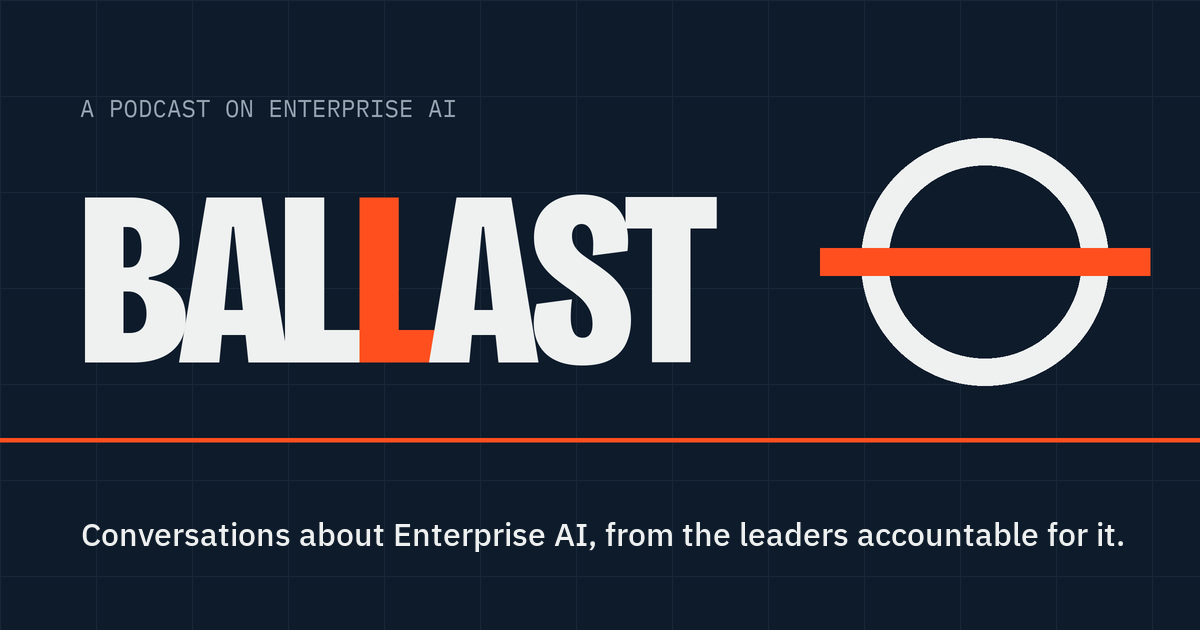
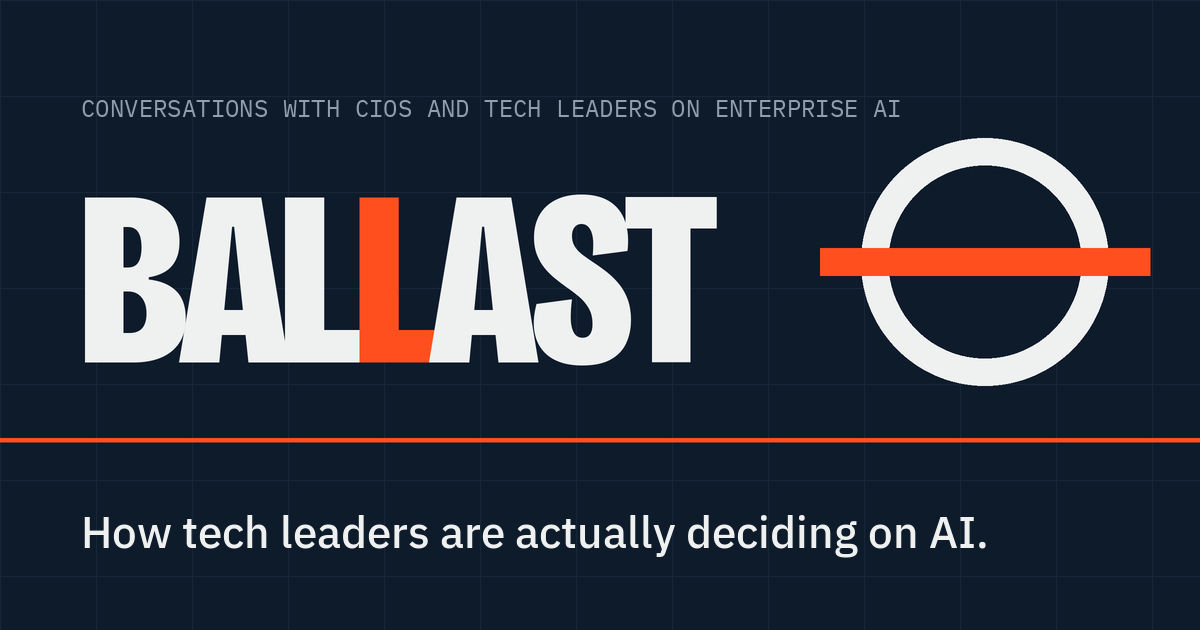
Add files via upload

Changed region(s): [[0.0617, 0.8143, 0.925, 0.9048], [0.0617, 0.1508, 0.74, 0.2111]]

diff --git a/index.html b/index.html
@@ -27,12 +27,12 @@
   <meta property="og:image" content="https://www.ballastpod.com/og.png" />
   <meta property="og:image:width" content="1200" />
   <meta property="og:image:height" content="630" />
-  <meta property="og:image:alt" content="Ballast, a podcast on enterprise AI: the Plimsoll load-line mark beside the line &quot;Conversations about Enterprise AI, from the leaders accountable for it.&quot;" />
+  <meta property="og:image:alt" content="Ballast, a podcast on enterprise AI: the Plimsoll load-line mark beside the line &quot;How tech leaders are actually deciding on AI.&quot;" />
   <meta name="twitter:card" content="summary_large_image" />
   <meta name="twitter:title" content="Ballast — Enterprise AI podcast for CIOs and CTOs" />
-  <meta name="twitter:description" content="Conversations about Enterprise AI, from the leaders accountable for it." />
+  <meta name="twitter:description" content="How tech leaders are actually deciding on AI." />
   <meta name="twitter:image" content="https://www.ballastpod.com/og.png" />
-  <meta name="twitter:image:alt" content="Ballast, a podcast on enterprise AI: the Plimsoll load-line mark beside the line &quot;Conversations about Enterprise AI, from the leaders accountable for it.&quot;" />
+  <meta name="twitter:image:alt" content="Ballast, a podcast on enterprise AI: the Plimsoll load-line mark beside the line &quot;How tech leaders are actually deciding on AI.&quot;" />
 
   <!-- Favicon: Plimsoll load-line mark -->
   <link rel="icon" href="favicon.ico" sizes="32x32" />
@@ -145,17 +145,9 @@
     }
     .hero h1 span { color: var(--signal-text); }
     /* Tagline lockup: the line is 32.3em wide and the BALLAST wordmark is 2.49em of the h1 size, so 0.0763 x the h1 clamp makes the tagline about 99% of the wordmark width. 17px floor keeps it readable; it stays on one line from 861px up and wraps to two on phones. */
-    .hero .lede { font-size: max(17px, calc(0.0763 * clamp(5.2rem, 19vw, 15rem))); line-height: 1.3; font-weight: 500; text-wrap: balance; margin-top: -10px; }
+    .hero .lede { font-size: clamp(1.3rem, 2.3vw, 1.75rem); line-height: 1.3; font-weight: 500; text-wrap: balance; margin-top: -10px; }
     @media (min-width: 861px) { .hero .lede { white-space: nowrap; } }
-    /* Clear space: Spotify asks for half the icon height (24px) around the icon. */
-    .hero-social { display: flex; flex-direction: column; align-items: flex-start; gap: 24px; }
-    .social-row { display: flex; align-items: center; gap: 26px; list-style: none; margin: 0; padding: 0; }
-    .soc { display: block; height: 48px; border-radius: 11px; transition: transform .2s; }
-    .soc svg { width: 48px; height: 48px; }
-    .soc img { display: block; height: 48px; width: auto; }
-    .soc[aria-disabled="true"] { opacity: .45; cursor: default; }
-    .soc:not([aria-disabled="true"]):hover { transform: translateY(-2px); }
-    .soon-note { font-family: var(--font-mono); font-size: .72rem; letter-spacing: .1em; text-transform: uppercase; color: var(--ink-2); }
+    .hero-cta { display: flex; flex-wrap: wrap; gap: 12px; }
     /* ===== TOPICS ===== */
     .topics { display: grid; grid-template-columns: repeat(3, 1fr); border-top: 1px solid var(--ink); border-left: 1px solid var(--ink); }
     @media (max-width: 900px) { .topics { grid-template-columns: repeat(2, 1fr); } }
@@ -223,12 +215,19 @@
     .subscribe, #news { background: var(--ink); color: var(--paper); }
     .subscribe h2, #news h2 { color: var(--paper); }
     .sub-grid { display: grid; grid-template-columns: 1fr 1fr; gap: 48px; align-items: start; }
-    .sub-grid.solo { grid-template-columns: minmax(0, 560px); }
     @media (max-width: 860px) { .sub-grid { grid-template-columns: 1fr; } }
     .platforms { display: flex; flex-wrap: wrap; gap: 10px; margin-top: 24px; }
     .platforms .btn { border-color: var(--paper); color: var(--paper); }
     .platforms .btn:hover { background: var(--paper); color: var(--ink); }
     .platforms svg { fill: currentColor; width: 16px; height: 16px; }
+    .platforms .plat { gap: 12px; padding: 12px 18px; }
+    .platforms .plat svg { width: auto; height: 24px; flex: none; }
+    .platforms .plat img { display: block; width: auto; height: 24px; flex: none; }
+    .platforms .plat:not([aria-disabled="true"]):hover { background: rgba(238,241,240,.12); color: var(--paper); }
+    /* Disabled: dim the label and border through alpha colour only, so the logo keeps full opacity and colour. Label is paper at .7 on ink (7.99:1). */
+    .platforms .plat[aria-disabled="true"] { cursor: default; color: rgba(238,241,240,.7); border-color: rgba(238,241,240,.45); }
+    .platforms .plat[aria-disabled="true"]:hover { background: transparent; color: rgba(238,241,240,.7); }
+    .soon-note { margin-top: 16px; font-family: var(--font-mono); font-size: .72rem; letter-spacing: .1em; text-transform: uppercase; color: rgba(238,241,240,.8); }
     .newsletter { display: flex; gap: 0; padding: 0; margin-top: 18px; border: 1.5px solid var(--paper); }
     .newsletter input { flex: 1; min-width: 0; background: transparent; border: 0; padding: 13px 16px; color: var(--paper); }
     .newsletter input::placeholder { color: rgba(238,241,240,.7); opacity: 1; }
@@ -336,18 +335,14 @@
     <section class="hero" aria-labelledby="hero-title">
       <div class="wrap hero-grid">
         <div class="kicker">
-          <span class="mono">A podcast on enterprise AI</span>
+          <span class="mono">Conversations with CIOs and tech leaders on enterprise AI</span>
         </div>
         <h1 id="hero-title">Bal<span>l</span>ast</h1>
-        <p class="lede">Conversations about Enterprise AI, from the leaders accountable for it.</p>
-          <div class="hero-social" id="hero-social" hidden>
-            <ul class="social-row">
-              <li><a class="soc" id="soc-spotify" role="link" aria-disabled="true" aria-label="Listen on Spotify" title="Listen on Spotify" target="_blank" rel="noopener"><img src="spotify.svg" alt="Spotify" width="236" height="225" /></a></li>
-              <li><a class="soc" id="soc-apple" role="link" aria-disabled="true" aria-label="Listen on Apple Podcasts" title="Listen on Apple Podcasts" target="_blank" rel="noopener"><svg viewBox="0 0 24 24" aria-hidden="true" focusable="false"><defs><linearGradient id="ap-grad" gradientUnits="userSpaceOnUse" x1="12" y1="0" x2="12" y2="24"><stop offset="0" stop-color="#F452FF"/><stop offset="1" stop-color="#832BC1"/></linearGradient></defs><rect x=".4" y=".4" width="23.2" height="23.2" rx="5.2" fill="#fff"/><path fill="url(#ap-grad)" d="M5.34 0A5.328 5.328 0 000 5.34v13.32A5.328 5.328 0 005.34 24h13.32A5.328 5.328 0 0024 18.66V5.34A5.328 5.328 0 0018.66 0zm6.525 2.568c2.336 0 4.448.902 6.056 2.587 1.224 1.272 1.912 2.619 2.264 4.392.12.59.12 2.2.007 2.864a8.506 8.506 0 01-3.24 5.296c-.608.46-2.096 1.261-2.336 1.261-.088 0-.096-.091-.056-.46.072-.592.144-.715.48-.856.536-.224 1.448-.874 2.008-1.435a7.644 7.644 0 002.008-3.536c.208-.824.184-2.656-.048-3.504-.728-2.696-2.928-4.792-5.624-5.352-.784-.16-2.208-.16-3 0-2.728.56-4.984 2.76-5.672 5.528-.184.752-.184 2.584 0 3.336.456 1.832 1.64 3.512 3.192 4.512.304.2.672.408.824.472.336.144.408.264.472.856.04.36.03.464-.056.464-.056 0-.464-.176-.896-.384l-.04-.03c-2.472-1.216-4.056-3.274-4.632-6.012-.144-.706-.168-2.392-.03-3.04.36-1.74 1.048-3.1 2.192-4.304 1.648-1.737 3.768-2.656 6.128-2.656zm.134 2.81c.409.004.803.04 1.106.106 2.784.62 4.76 3.408 4.376 6.174-.152 1.114-.536 2.03-1.216 2.88-.336.43-1.152 1.15-1.296 1.15-.023 0-.048-.272-.048-.603v-.605l.416-.496c1.568-1.878 1.456-4.502-.256-6.224-.664-.67-1.432-1.064-2.424-1.246-.64-.118-.776-.118-1.448-.008-1.02.167-1.81.562-2.512 1.256-1.72 1.704-1.832 4.342-.264 6.222l.413.496v.608c0 .336-.027.608-.06.608-.03 0-.264-.16-.512-.36l-.034-.011c-.832-.664-1.568-1.842-1.872-2.997-.184-.698-.184-2.024.008-2.72.504-1.878 1.888-3.335 3.808-4.019.41-.145 1.133-.22 1.814-.211zm-.13 2.99c.31 0 .62.06.844.178.488.253.888.745 1.04 1.259.464 1.578-1.208 2.96-2.72 2.254h-.015c-.712-.331-1.096-.956-1.104-1.77 0-.733.408-1.371 1.112-1.745.224-.117.534-.176.844-.176zm-.011 4.728c.988-.004 1.706.349 1.97.97.198.464.124 1.932-.218 4.302-.232 1.656-.36 2.074-.68 2.356-.44.39-1.064.498-1.656.288h-.003c-.716-.257-.87-.605-1.164-2.644-.341-2.37-.416-3.838-.218-4.302.262-.616.974-.966 1.97-.97z"/></svg></a></li>
-              <li><a class="soc" id="soc-linkedin" role="link" aria-disabled="true" aria-label="Hans on LinkedIn" title="Hans on LinkedIn" target="_blank" rel="noopener"><img src="linkedin.png" alt="LinkedIn" width="635" height="540" /></a></li>
-            </ul>
-            <p class="soon-note" id="soon-note" hidden>Coming soon</p>
-          </div>
+        <p class="lede">How tech leaders are actually deciding on AI.</p>
+        <div class="hero-cta">
+          <a class="btn btn-fill" id="hero-listen" href="#subscribe"><svg viewBox="0 0 24 24" fill="currentColor" aria-hidden="true"><path d="M8 5v14l11-7z"/></svg>Listen</a>
+          <a class="btn" href="#guest">Be a guest</a>
+        </div>
         <!-- Latest episode, pulled from EPISODES[0] by JS -->
         <a class="latest reveal in" id="latest" href="#episodes" hidden>
           <span class="mono"><i></i>Latest episode</span>
@@ -479,14 +474,15 @@
     <!-- ===== SUBSCRIBE ===== -->
     <section id="subscribe" class="subscribe" aria-labelledby="subscribe-title">
       <div class="wrap sub-grid">
-        <div class="reveal" id="platforms-col" hidden>
+        <div class="reveal" id="platforms-col">
           <h2 id="subscribe-title">Wherever you listen.</h2>
           <div class="platforms">
-            <a class="btn" id="pl-apple" target="_blank" rel="noopener" hidden><svg viewBox="0 0 24 24" aria-hidden="true"><path d="M12 2a10 10 0 0 0-3.8 19.3c-.3-1-.6-2.7-.3-3.6A7 7 0 1 1 16 17.7c.3.9.1 2.6-.2 3.6A10 10 0 0 0 12 2zm0 7a3 3 0 1 0 0 6 3 3 0 0 0 0-6zm0 7c-1.4 0-2.2.6-2.2 1.6 0 .7.7 4.8.9 5.5.2.6.6.9 1.3.9s1.1-.3 1.3-.9c.2-.7.9-4.8.9-5.5 0-1-.8-1.6-2.2-1.6z"/></svg>Apple Podcasts</a>
-            <a class="btn" id="pl-spotify" target="_blank" rel="noopener" hidden><svg viewBox="0 0 24 24" aria-hidden="true"><path d="M12 2a10 10 0 1 0 0 20 10 10 0 0 0 0-20zm4.3 14.5c-.2.3-.6.4-.9.2-2.4-1.5-5.5-1.8-9.1-1-.4.1-.7-.1-.8-.5-.1-.4.2-.7.5-.8 3.9-.9 7.3-.5 10.1 1.2.3.2.4.6.2.9zm1.2-2.6c-.2.4-.7.5-1.1.3-2.8-1.7-7-2.2-10.3-1.2-.5.1-.9-.1-1-.6-.1-.5.1-.9.6-1 3.8-1.1 8.5-.6 11.6 1.4.4.2.5.7.2 1.1zm.1-2.8c-3.3-2-8.8-2.2-12-1.2-.5.2-1.1-.1-1.2-.7-.2-.5.1-1.1.7-1.2 3.7-1.1 9.8-.9 13.6 1.4.5.3.6.9.4 1.4-.3.4-1 .6-1.5.3z"/></svg>Spotify</a>
-            <a class="btn" id="pl-youtube" target="_blank" rel="noopener" hidden><svg viewBox="0 0 24 24" aria-hidden="true"><path d="M23 7.2a3 3 0 0 0-2.1-2.1C19 4.6 12 4.6 12 4.6s-7 0-8.9.5A3 3 0 0 0 1 7.2 31 31 0 0 0 .5 12 31 31 0 0 0 1 16.8a3 3 0 0 0 2.1 2.1c1.9.5 8.9.5 8.9.5s7 0 8.9-.5a3 3 0 0 0 2.1-2.1A31 31 0 0 0 23.5 12 31 31 0 0 0 23 7.2zM9.7 15.2V8.8l6 3.2-6 3.2z"/></svg>YouTube</a>
+            <a class="btn plat" id="pl-apple" role="link" aria-disabled="true" target="_blank" rel="noopener"><svg viewBox="0 0 24 24" width="24" height="24" aria-hidden="true" focusable="false"><defs><linearGradient id="ap-grad" gradientUnits="userSpaceOnUse" x1="12" y1="0" x2="12" y2="24"><stop offset="0" stop-color="#F452FF"/><stop offset="1" stop-color="#832BC1"/></linearGradient></defs><rect x=".4" y=".4" width="23.2" height="23.2" rx="5.2" fill="#fff"/><path fill="url(#ap-grad)" d="M5.34 0A5.328 5.328 0 000 5.34v13.32A5.328 5.328 0 005.34 24h13.32A5.328 5.328 0 0024 18.66V5.34A5.328 5.328 0 0018.66 0zm6.525 2.568c2.336 0 4.448.902 6.056 2.587 1.224 1.272 1.912 2.619 2.264 4.392.12.59.12 2.2.007 2.864a8.506 8.506 0 01-3.24 5.296c-.608.46-2.096 1.261-2.336 1.261-.088 0-.096-.091-.056-.46.072-.592.144-.715.48-.856.536-.224 1.448-.874 2.008-1.435a7.644 7.644 0 002.008-3.536c.208-.824.184-2.656-.048-3.504-.728-2.696-2.928-4.792-5.624-5.352-.784-.16-2.208-.16-3 0-2.728.56-4.984 2.76-5.672 5.528-.184.752-.184 2.584 0 3.336.456 1.832 1.64 3.512 3.192 4.512.304.2.672.408.824.472.336.144.408.264.472.856.04.36.03.464-.056.464-.056 0-.464-.176-.896-.384l-.04-.03c-2.472-1.216-4.056-3.274-4.632-6.012-.144-.706-.168-2.392-.03-3.04.36-1.74 1.048-3.1 2.192-4.304 1.648-1.737 3.768-2.656 6.128-2.656zm.134 2.81c.409.004.803.04 1.106.106 2.784.62 4.76 3.408 4.376 6.174-.152 1.114-.536 2.03-1.216 2.88-.336.43-1.152 1.15-1.296 1.15-.023 0-.048-.272-.048-.603v-.605l.416-.496c1.568-1.878 1.456-4.502-.256-6.224-.664-.67-1.432-1.064-2.424-1.246-.64-.118-.776-.118-1.448-.008-1.02.167-1.81.562-2.512 1.256-1.72 1.704-1.832 4.342-.264 6.222l.413.496v.608c0 .336-.027.608-.06.608-.03 0-.264-.16-.512-.36l-.034-.011c-.832-.664-1.568-1.842-1.872-2.997-.184-.698-.184-2.024.008-2.72.504-1.878 1.888-3.335 3.808-4.019.41-.145 1.133-.22 1.814-.211zm-.13 2.99c.31 0 .62.06.844.178.488.253.888.745 1.04 1.259.464 1.578-1.208 2.96-2.72 2.254h-.015c-.712-.331-1.096-.956-1.104-1.77 0-.733.408-1.371 1.112-1.745.224-.117.534-.176.844-.176zm-.011 4.728c.988-.004 1.706.349 1.97.97.198.464.124 1.932-.218 4.302-.232 1.656-.36 2.074-.68 2.356-.44.39-1.064.498-1.656.288h-.003c-.716-.257-.87-.605-1.164-2.644-.341-2.37-.416-3.838-.218-4.302.262-.616.974-.966 1.97-.97z"/></svg><span>Apple Podcasts</span></a>
+            <a class="btn plat" id="pl-spotify" role="link" aria-disabled="true" target="_blank" rel="noopener"><img src="spotify.svg" alt="" width="236" height="225" /><span>Spotify</span></a>
+            <a class="btn plat" id="pl-youtube" role="link" aria-disabled="true" target="_blank" rel="noopener"><svg viewBox="0 0 28.57 20" width="34" height="24" aria-hidden="true" focusable="false"><path fill="#FF0000" d="M27.97 3.12a3.58 3.58 0 0 0-2.52-2.53C23.23 0 14.29 0 14.29 0S5.34 0 3.12.59A3.58 3.58 0 0 0 .6 3.12C0 5.35 0 10 0 10s0 4.65.6 6.88a3.58 3.58 0 0 0 2.52 2.53C5.34 20 14.29 20 14.29 20s8.94 0 11.16-.59a3.58 3.58 0 0 0 2.52-2.53C28.57 14.65 28.57 10 28.57 10s0-4.65-.6-6.88z"/><path fill="#fff" d="M11.43 14.29 18.85 10l-7.42-4.29z"/></svg><span>YouTube</span></a>
             <a class="btn" id="pl-rss" target="_blank" rel="noopener" hidden><svg viewBox="0 0 24 24" aria-hidden="true"><path d="M4 4.5v3a12.5 12.5 0 0 1 12.5 12.5h3A15.5 15.5 0 0 0 4 4.5zm0 6v3a6.5 6.5 0 0 1 6.5 6.5h3A9.5 9.5 0 0 0 4 10.5zM6.2 17a2.2 2.2 0 1 0 0 4.4 2.2 2.2 0 0 0 0-4.4z"/></svg>RSS</a>
           </div>
+          <p class="soon-note" id="soon-note" hidden>Coming soon</p>
         </div>
         <div class="reveal">
           <h3 class="h-sub">New episodes by email.</h3>

diff --git a/site.js b/site.js
@@ -154,39 +154,40 @@ const safeId = i => /^[A-Za-z0-9_-]+$/.test(i) ? i : '';
 const CONTACT = safeEmail(SITE.contactEmail);
 const safeAppleUrl = u => /^https:\/\/(podcasts|itunes)\.apple\.com\/[^\s"'<>]+$/i.test(u) ? u : '';
 const safeLinkedInUrl = u => /^https:\/\/www\.linkedin\.com\/in\/[^\s"'<>]+$/i.test(u) ? u : '';
+const safeYoutubeUrl = u => /^https:\/\/(www\.)?youtube\.com\/[^\s"'<>]+$/i.test(u) ? u : '';
 const safeSpotifyUrl = u => /^https:\/\/open\.spotify\.com\/[^\s"'<>]+$/i.test(u) ? u : '';
 const ENDPOINT = safeScriptUrl(SITE.guestEndpoint);
 const NL_ID = safeId(SITE.newsletterFormId);
 /* Newsletter signup UI (Subscribe form) shows only when a delivery path exists. */
 const hasSignupPath = !!ENDPOINT || !!NL_ID || !!CONTACT;
-/* Hero brand icons. An icon whose URL is empty or invalid stays visible but dimmed and not a link; once its SITE value is set it becomes a normal link. */
-(function () {
-  const items = [
-    ['soc-spotify', safeSpotifyUrl(SITE.spotifyUrl), 'spotify'],
-    ['soc-apple', safeAppleUrl(SITE.appleUrl), 'apple'],
-    ['soc-linkedin', safeLinkedInUrl(SITE.hostLinkedIn), 'linkedin']
-  ];
-  items.forEach(([id, url, name]) => {
-    if (!url) return;
-    const a = document.getElementById(id);
-    a.href = url; a.removeAttribute('aria-disabled'); a.removeAttribute('role');
-    a.addEventListener('click', () => track('platform_click', { platform: name }));
-  });
-  document.getElementById('soon-note').hidden = !!(items[0][1] && items[1][1]);
-  document.getElementById('hero-social').hidden = false;
-})();
 function setLink(id, url) {
   const el = document.getElementById(id), u = safeUrl(url);
   if (!el) return false;
   if (u) { el.href = u; el.hidden = false; }
   return !!u;
 }
-const anyPlatform = [
-  setLink('pl-apple', safeAppleUrl(SITE.appleUrl)), setLink('pl-spotify', safeSpotifyUrl(SITE.spotifyUrl)),
-  setLink('pl-youtube', SITE.youtubeUrl), setLink('pl-rss', SITE.rssUrl)
-].some(Boolean);
-document.getElementById('platforms-col').hidden = !anyPlatform;
-document.querySelector('.sub-grid').classList.toggle('solo', !anyPlatform);
+/* "Wherever you listen": the three buttons always show. One with no valid URL stays dimmed and unlinked until its SITE value is set. RSS shows only when rssUrl is set. */
+const platformUrls = {
+  'pl-apple': safeAppleUrl(SITE.appleUrl),
+  'pl-spotify': safeSpotifyUrl(SITE.spotifyUrl),
+  'pl-youtube': safeYoutubeUrl(SITE.youtubeUrl)
+};
+Object.entries(platformUrls).forEach(([id, url]) => {
+  if (!url) return;
+  const a = document.getElementById(id);
+  a.href = url; a.removeAttribute('aria-disabled'); a.removeAttribute('role');
+});
+document.getElementById('soon-note').hidden = Object.values(platformUrls).every(Boolean);
+setLink('pl-rss', SITE.rssUrl);
+/* Hero "Listen": smooth-scroll to the Subscribe section (instant under reduced motion) and move focus to its heading. */
+document.getElementById('hero-listen').addEventListener('click', e => {
+  e.preventDefault();
+  const heading = document.getElementById('subscribe-title');
+  document.getElementById('subscribe').scrollIntoView({ behavior: reduceMotion ? 'auto' : 'smooth', block: 'start' });
+  heading.setAttribute('tabindex', '-1');
+  heading.focus({ preventScroll: true });
+  history.replaceState(null, '', '#subscribe');
+});
 setLink('host-linkedin', safeLinkedInUrl(SITE.hostLinkedIn));
 setLink('footer-linkedin', safeLinkedInUrl(SITE.hostLinkedIn));
 if (SITE.hostSurname.trim()) document.getElementById('host-surname').textContent = ' ' + SITE.hostSurname.trim();

diff --git a/README.md b/README.md
@@ -21,9 +21,9 @@ Every field is an empty string until the owner fills it in. A control that needs
 | `guestEndpoint` | Google Apps Script web app URL, already set. Must look like `https://script.google.com/macros/s/<id>/exec` or it is ignored. The guest form and the newsletter form (Subscribe section) POST to it (form-encoded, no custom headers) and expect JSON `{"ok":true}`. The newsletter forms send an extra hidden `form=newsletter` field; the guest form sends no `form` field, so the script treats it as a guest request. The script logs each submission to a Google Sheet and emails the guest or subscriber (and, for guest requests, the owner). It reads the fields `name, title, company, email, linkedin, form, _gotcha`, so keep those `name` attributes. Takes priority over `newsletterFormId`, `guestFormId` and `contactEmail`. Newsletter priority is endpoint, then `newsletterFormId`, then a `contactEmail` mailto draft. |
 | `guestFormId` | Formspree form ID. Used only when `guestEndpoint` is empty. The "Be a guest" form is always visible; this is what makes it submit to Formspree. If it is empty but `contactEmail` is set, submitting opens an email draft to `contactEmail` (subject "Ballast guest pitch") with the typed fields in the body. With neither, submitting shows "Guest requests aren't being collected online yet" and keeps what was typed. |
 | `contactEmail` | Public address. Last-resort fallback: the guest and newsletter forms open an email draft to it when neither an endpoint nor a form ID is set. Also used for error-message email links in the Formspree guest path. |
-| `appleUrl`, `spotifyUrl`, `youtubeUrl`, `rssUrl` | Each shows its button in the Subscribe section; the "Wherever you listen" column appears when at least one is set. `spotifyUrl` must be an `https://open.spotify.com/...` link and `appleUrl` an `https://podcasts.apple.com/...` (or `itunes.apple.com`) link. The same two values drive the hero brand icons: with no valid URL the icon still shows, dimmed and not a link, and a "Coming soon" caption sits under the row while either is missing; once set, the icon becomes a normal link automatically. |
+| `appleUrl`, `spotifyUrl`, `youtubeUrl`, `rssUrl` | The "Wherever you listen" buttons in the Subscribe section (the hero "Listen" button scrolls there). Apple Podcasts, Spotify and YouTube always show; a button with no valid URL stays dimmed and unlinked and a "Coming soon" line shows under the row until all three are set. RSS appears only when `rssUrl` is set. URL checks: `spotifyUrl` must be `https://open.spotify.com/...`, `appleUrl` `https://podcasts.apple.com/...` (or `itunes.apple.com`), `youtubeUrl` `https://www.youtube.com/...` or `https://youtube.com/...`, `rssUrl` any `https://` URL. |
 | `hostSurname` | Appended to "Hosted by Hans" in the About section. |
-| `hostLinkedIn` | LinkedIn profile URL, already set. Must start with `https://www.linkedin.com/in/`. Drives the hero LinkedIn icon, the About button and the footer link. |
+| `hostLinkedIn` | LinkedIn profile URL, already set. Must start with `https://www.linkedin.com/in/`. Drives the About button and the footer link. |
 | `hostAffiliation` | Shows a one-line disclosure under the bio, for example an employer or independence statement. |
 | `newsStaleDays` | Soundings hides itself, and its nav link, when `NEWS.weekOf` is older than this many days (default 14). |
 | `analytics` | `false` by default. Set to `true` only after Web Analytics is enabled in the Vercel project; `site.js` then loads `/_vercel/insights/script.js`. |
@@ -66,7 +66,7 @@ The site is hosted on Vercel.
 
 ## Checklist: values only the owner can provide
 
-- [ ] Spotify show URL (`spotifyUrl`) and Apple Podcasts URL (`appleUrl`) to light up the hero icons
+- [ ] Spotify show URL (`spotifyUrl`), Apple Podcasts URL (`appleUrl`) and YouTube channel URL (`youtubeUrl`) to switch the "Wherever you listen" buttons on
 - [ ] Optional: Formspree form ID for the newsletter (`newsletterFormId`) as a fallback
 - [ ] Keep the Google Apps Script deployment live and set to allow anyone to POST (`guestEndpoint`); optionally a Formspree ID for the guest form (`guestFormId`) as a fallback
 - [ ] Public contact email (`contactEmail`)
@@ -81,11 +81,11 @@ The site is hosted on Vercel.
 
 ## Brand icon sources
 
-The hero icons are brand marks and must be used unmodified. Follow each brand's guidelines.
+The platform logos on the "Wherever you listen" buttons are brand marks and must be used unmodified. Follow each brand's guidelines.
 
 | Icon | File | Source |
 |------|------|--------|
-| Spotify | `spotify.svg` | Official icon (`Primary_Logo_Green_RGB.svg`) from the "Download Icon" zip on https://developer.spotify.com/documentation/design (https://developer.spotify.com/images/guidelines/design/2024-spotify-logo-icon.zip). Spotify asks for the green icon only on black or white backgrounds, a clear space of half the icon height, and at least 21px; on other light backgrounds use the black icon from the same zip. |
-| LinkedIn | `linkedin.png` | Official "In" bug (`LI-In-Bug.png`) from the [in] Logo download on https://brand.linkedin.com/downloads (https://content.linkedin.com/content/dam/me/business/en-us/amp/xbu/linkedin-revised-brand-guidelines/logos/in-logo.zip). The page says downloading the logos means agreeing to the LinkedIn Brand and User Agreements. |
-| Apple Podcasts | inline SVG in `index.html` | NOT official artwork. Apple only offers its icon as a layered PSD behind a Box share page linked from https://marketing.services.apple/apple-podcasts-identity-guidelines (https://apple.box.com/s/be82lvt43yrha9c55nfxmm10l9bnp6am). Download it there, export an SVG or PNG, save it as `apple-podcasts.png` (or `.svg`) in the repo root, next to `spotify.svg` and `linkedin.png`, and replace the inline SVG in `#soc-apple`. Apple also says to use its "Listen on Apple Podcasts" badge in marketing, and the icon only alongside icons of similar shape and size. |
-
+| Spotify | `spotify.svg` | Official icon (`Primary_Logo_Green_RGB.svg`) from the "Download Icon" zip on https://developer.spotify.com/documentation/design (https://developer.spotify.com/images/guidelines/design/2024-spotify-logo-icon.zip). Spotify allows the green icon on black or white backgrounds (it sits on the navy section here), asks for a clear space of half the icon height, and a minimum of 21px. |
+| Apple Podcasts | inline SVG in `index.html` (`#pl-apple`) | NOT official artwork. Apple only offers its icon as a layered PSD behind a Box share page linked from https://marketing.services.apple/apple-podcasts-identity-guidelines (https://apple.box.com/s/be82lvt43yrha9c55nfxmm10l9bnp6am). Download it there, export a PNG or SVG, save it as `apple-podcasts.png` (or `.svg`) in the repo root, and replace the inline SVG in `#pl-apple` with an `<img>`. Apple also says to use its "Listen on Apple Podcasts" badge in marketing. |
+| YouTube | inline SVG in `index.html` (`#pl-youtube`) | NOT official artwork. YouTube's brand resources at https://brand.youtube/ (also reached from https://www.youtube.com/howyoutubeworks/resources/brand-resources/) are a JavaScript-rendered site with no direct download links, so I could not fetch the official icon. Download the YouTube icon there, save it as `youtube.svg` (or `.png`) in the repo root, and replace the inline SVG in `#pl-youtube`. |
+| LinkedIn | `linkedin.png` | Unused since the hero logo row was removed (About and footer use a plain glyph). Official "In" bug from https://brand.linkedin.com/downloads; safe to delete. |
